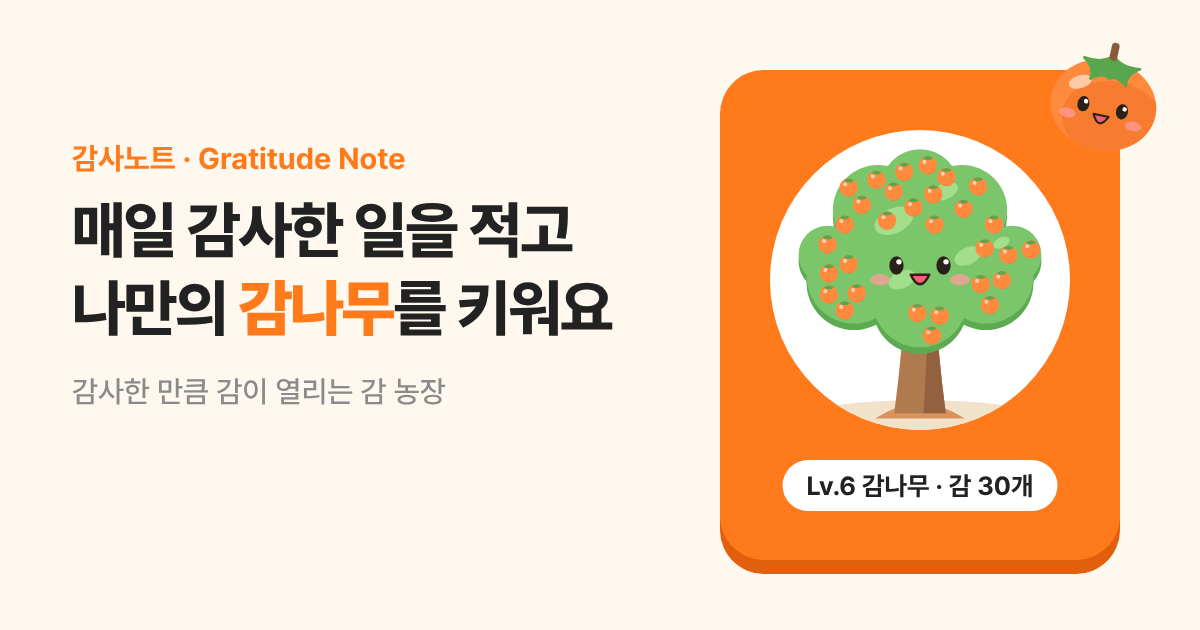
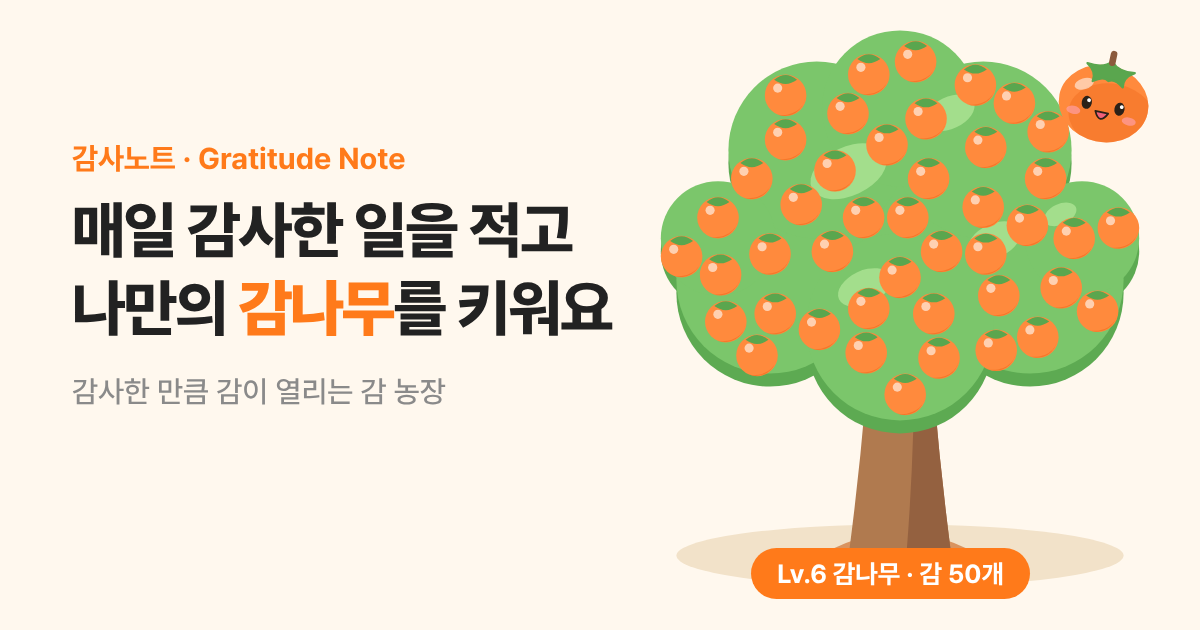
감사노트: 나무를 상자·원 없이 크게 표시, 감이 열리면 나무 얼굴 제거
Claude-Session: https://claude.ai/code/session_01EFAd4hury13y4Zs9Q6ZPV4

Changed region(s): [[0.5242, 0.0302, 0.9867, 0.9651]]

diff --git a/gamsa-note/src/components/FarmTree.tsx b/gamsa-note/src/components/FarmTree.tsx
@@ -44,17 +44,12 @@ export default function FarmTree({ t, onClick }: { t: FarmTreeData; onClick?: ()
   const ps = periodState(t);
   const mine = t.is_member;
   return (
-    <button onClick={onClick}
-      className={`relative w-full text-left rounded-[20px] p-3 pb-3.5 transition-transform active:scale-[.98] ${mine ? "bg-gam text-white" : "bg-white"}`}>
-      <div className="flex items-center justify-between text-[11px] font-semibold">
-        <span className={`flex items-center gap-1 ${mine ? "" : "text-sub"}`}><Persimmon className="w-3.5 h-3.5" face={false} />{t.note_count}</span>
-        <span className={`rounded-full px-1.5 py-0.5 ${mine ? "bg-white/25" : ps.tone}`}>{ps.label}</span>
-      </div>
-      <div className={`mt-2 mx-auto w-[82%] aspect-square rounded-full flex items-end justify-center overflow-hidden ${mine ? "bg-white" : "bg-peach"}`}>
-        <GamTree count={t.note_count} className="w-[88%] -mb-0.5" />
-      </div>
-      <div className="mt-2.5 flex justify-center"><span className={`text-[13px] font-bold rounded-full px-2.5 py-0.5 text-center break-keep ${mine ? "bg-white text-ink" : "bg-cream"}`}>{t.name}</span></div>
-      <p className={`mt-1.5 text-center text-[11px] ${mine ? "text-white/85" : "text-sub"}`}>{st.label}{mine ? " · 내 나무" : ""}</p>
+    <button onClick={onClick} className="relative w-full flex flex-col items-center transition-transform active:scale-[.98]">
+      {mine && <span className="absolute left-0 top-0 z-10 bg-gam text-white text-[11px] font-bold rounded-full px-2 py-0.5">내 나무</span>}
+      <span className={`absolute right-0 top-0 z-10 text-[11px] font-semibold rounded-full px-2 py-0.5 ${ps.tone}`}>{ps.label}</span>
+      <GamTree count={t.note_count} className="w-full" />
+      <span className={`-mt-1 text-[13px] font-bold rounded-full px-3 py-1 text-center break-keep ${mine ? "bg-gam text-white" : "bg-white border border-line"}`}>{t.name}</span>
+      <p className="mt-1 text-[11px] text-sub flex items-center gap-1"><Persimmon className="w-3.5 h-3.5" face={false} />{t.note_count} · {st.label}</p>
     </button>
   );
 }
@@ -69,9 +64,7 @@ export function TreeDetail({ t, onClose }: { t: FarmTreeData; onClose: () => voi
           <button onClick={onClose} className="absolute right-4 top-4 w-9 h-9 rounded-full bg-cream text-lg" aria-label="닫기">×</button>
           <div className="flex flex-col items-center">
             <SignBoard name={t.name} />
-            <div className="mt-3 w-56 h-56 rounded-full bg-peach flex items-end justify-center overflow-hidden">
-              <GamTree count={t.note_count} className="w-[88%]" />
-            </div>
+            <GamTree count={t.note_count} className="w-72 max-w-full mt-1" />
           </div>
         </div>
         <div className="px-5 pt-4">

diff --git a/gamsa-note/src/app/(app)/calendar/page.tsx b/gamsa-note/src/app/(app)/calendar/page.tsx
@@ -85,22 +85,17 @@ function CalendarInner() {
         <Link href="/farm" className="text-[12px] font-semibold text-gam bg-gam-light rounded-full px-2.5 py-1">감농장</Link>
       </div>
 
-      <section className="rounded-[22px] bg-gam text-white p-5 shadow-[0_8px_0_#e2600c]">
-        <div className="flex items-center justify-between text-[13px] font-semibold">
-          <span className="flex items-center gap-1.5 bg-white/20 rounded-full pl-1 pr-2.5 py-0.5"><Persimmon className="w-5 h-5" face={false} /> {yearCount ?? 0}개</span>
-          <span>{thisYear}년 감사 기록 중</span>
+      <section className="text-center">
+        <GamTree count={yearCount ?? 0} className="w-full max-w-[340px] mx-auto -mt-2" />
+        <div className="-mt-1 flex justify-center items-center gap-2">
+          <span className="bg-gam text-white text-[14px] font-bold rounded-full px-3.5 py-1">Lv.{lv.level} {lv.label}</span>
+          {lv.grown > 0 && <span className="bg-white border border-line text-[13px] font-bold rounded-full px-3 py-1 flex items-center gap-1"><Persimmon className="w-4 h-4" face={false} />감 {lv.grown}개</span>}
         </div>
-        <div className="mt-3 mx-auto w-44 h-44 sm:w-52 sm:h-52 rounded-full bg-white flex items-end justify-center overflow-hidden">
-          <GamTree count={yearCount ?? 0} className="w-[88%] -mb-1" />
-        </div>
-        <div className="mt-3 flex justify-center">
-          <span className="bg-white text-ink text-[13px] font-bold rounded-full px-3 py-1">Lv.{lv.level} {lv.label}</span>
-        </div>
-        <div className="mt-4 xp"><div style={{ width: `${(lv.cur / lv.max) * 100}%` }} /></div>
-        <p className="mt-3 text-center text-[14px] font-semibold leading-snug">
-          올해 총 {total}일 중 <b className="text-[17px]">{yearCount ?? 0}일</b><br />감사노트를 작성했어요
+        <div className="mt-4 max-w-xs mx-auto h-2.5 rounded-full bg-gam-light overflow-hidden"><div className="h-full rounded-full bg-gam" style={{ width: `${(lv.cur / lv.max) * 100}%` }} /></div>
+        <p className="mt-1.5 text-[12px] text-sub">{lv.next}</p>
+        <p className="mt-3 text-[15px] font-semibold leading-snug">
+          올해 총 {total}일 중 <b className="text-gam text-[18px]">{yearCount ?? 0}일</b> 감사노트를 작성했어요
         </p>
-        <p className="mt-1 text-center text-[11px] text-white/80">{lv.grown ? `감 ${lv.grown}개가 열렸어요 · ` : ""}{lv.next}</p>
       </section>
 
       {wroteToday === false && (

diff --git a/gamsa-note/src/app/page.tsx b/gamsa-note/src/app/page.tsx
@@ -4,7 +4,7 @@ import { GamTree, Persimmon } from "@/components/Illust";
 export default async function Landing({ searchParams }: { searchParams: Promise<{ next?: string; error?: string }> }) {
   const sp = await searchParams;
   return (
-    <main className="min-h-dvh flex flex-col max-w-md mx-auto px-6 pt-14 pb-8">
+    <main className="min-h-dvh flex flex-col max-w-md mx-auto px-6 pt-12 pb-8">
       <p className="text-gam font-bold text-[14px]">Gratitude Note</p>
       <h1 className="mt-2 text-[28px] leading-[1.35] font-extrabold">
         매일 감사한 일을 적고<br />나만의 <span className="text-gam">감나무</span>를 키워요
@@ -13,15 +13,13 @@ export default async function Landing({ searchParams }: { searchParams: Promise<
         원고지에 쓰는 하루 한 줄 감사, 사진 한 장.<br />함께 감사하면 감나무에 감이 주렁주렁 열려요.
       </p>
 
-      <div className="relative mt-8 rounded-[28px] bg-gam px-6 pt-6 pb-5">
-        <div className="flex items-center justify-between text-white text-[12px] font-semibold">
-          <span>MY 감나무</span><span>Lv.6 감나무</span>
+      <div className="relative mt-4">
+        <GamTree count={150} className="w-full max-w-[360px] mx-auto" />
+        <div className="-mt-1 flex justify-center gap-2">
+          <span className="bg-gam text-white rounded-full px-3.5 py-1 text-[13px] font-bold">Lv.6 감나무</span>
+          <span className="bg-white border border-line rounded-full px-3 py-1 text-[13px] font-bold">감 50개가 열렸어요</span>
         </div>
-        <div className="mt-3 mx-auto w-48 h-48 rounded-full bg-white flex items-end justify-center overflow-hidden">
-          <GamTree count={128} className="w-[90%] -mb-1" />
-        </div>
-        <div className="mt-3 flex justify-center"><span className="bg-white rounded-full px-3 py-1 text-[13px] font-bold">감 28개가 열렸어요</span></div>
-        <Persimmon className="absolute -right-3 -top-5 w-16 h-16 rotate-12 floaty" />
+        <Persimmon className="absolute right-0 top-2 w-14 h-14 rotate-12 floaty" />
       </div>
 
       <div className="flex-1" />

diff --git a/gamsa-note/src/lib/illust.ts b/gamsa-note/src/lib/illust.ts
@@ -47,7 +47,7 @@ export function persimmonSvg(opts: { face?: boolean } = {}) {
   </svg>`;
 }
 
-function miniFruit(x: number, y: number, r = 7) {
+function miniFruit(x: number, y: number, r = 8) {
   return `<g>
     <circle cx="${x}" cy="${y}" r="${r}" fill="${C.persimmon}"/>
     <path d="M${x + r * 0.95} ${y + r * 0.1} A${r} ${r} 0 0 1 ${x - r * 0.4} ${y + r * 0.92} A${r * 1.1} ${r * 0.9} 0 0 0 ${x + r * 0.95} ${y + r * 0.1}Z" fill="${C.persimmonDark}" opacity=".6"/>
@@ -91,15 +91,13 @@ const FACE: Record<number, [number, number, number]> = { 3: [100, 100, 40], 4: [
 /** 감나무 5단계에서 감이 열릴 자리 (얼굴 피해서) */
 export const FRUIT_SPOTS: [number, number][] = (() => {
   const blobs = STAGE_BLOBS[5];
-  const [fx, fy] = FACE[5];
   const out: [number, number][] = [];
   let s = 11;
   const rnd = () => ((s = (s * 16807) % 2147483647) / 2147483647);
-  for (let t = 0; t < 5000 && out.length < 44; t++) {
+  for (let t = 0; t < 8000 && out.length < 60; t++) {
     const x = 14 + rnd() * 172, y = 6 + rnd() * 150;
     if (!blobs.some(([bx, by, r]) => (x - bx) ** 2 + (y - by) ** 2 < (r - 6) ** 2)) continue;
-    if (Math.abs(x - fx) < 44 && y > fy - 28 && y < fy + 36) continue;
-    if (out.some(([ox, oy]) => (ox - x) ** 2 + (oy - y) ** 2 < 15 ** 2)) continue;
+    if (out.some(([ox, oy]) => (ox - x) ** 2 + (oy - y) ** 2 < 16.5 ** 2)) continue;
     out.push([Math.round(x), Math.round(y)]);
   }
   return out;
@@ -135,7 +133,8 @@ export function treeSvg(count: number) {
     }
     body += canopy(STAGE_BLOBS[lvl]);
     const [fx, fy, fs] = FACE[lvl];
-    body += face(fx, fy, fs);
+    // 감이 열리기 전까지만 얼굴이 있음
+    if (count <= FULL_AT) body += face(fx, fy, fs);
     if (count > FULL_AT) {
       body += FRUIT_SPOTS.slice(0, count - FULL_AT).map(([x, y]) => miniFruit(x, y)).join("");
     }

diff --git a/gamsa-note/scripts/build-assets.ts b/gamsa-note/scripts/build-assets.ts
@@ -56,13 +56,15 @@ async function icon(size: number, file: string, { radius = 0, pad = 0.14, bg = "
     .card{position:absolute;right:80px;top:70px;width:400px;height:490px;border-radius:44px;background:#FF7A1A;box-shadow:0 14px 0 #e2600c}
     .circle{position:absolute;left:50px;top:60px;width:300px;height:300px;border-radius:50%;background:#fff;overflow:hidden;display:flex;align-items:flex-end;justify-content:center}
     .circle svg{width:88%;margin-bottom:-4px}
-    .chip{position:absolute;left:50%;transform:translateX(-50%);top:390px;background:#fff;border-radius:999px;padding:10px 24px;font-weight:700;font-size:26px;white-space:nowrap}
-    .pc{position:absolute;right:30px;top:30px;width:130px;transform:rotate(12deg)}
+    .tree{position:absolute;right:40px;top:20px;width:520px}
+    .tree svg{width:100%;height:auto;display:block}
+    .chip{position:absolute;right:170px;top:548px;background:#FF7A1A;color:#fff;border-radius:999px;padding:10px 26px;font-weight:700;font-size:26px;white-space:nowrap}
+    .pc{position:absolute;right:40px;top:40px;width:110px;transform:rotate(12deg)}
   </style></head><body>
   <div class="l"><div class="tag">감사노트 · Gratitude Note</div>
   <h1>매일 감사한 일을 적고<br>나만의 <b>감나무</b>를 키워요</h1>
   <p>감사한 만큼 감이 열리는 감 농장</p></div>
-  <div class="card"><div class="circle">${treeSvg(130)}</div><div class="chip">Lv.6 감나무 · 감 30개</div></div>
+  <div class="tree">${treeSvg(150)}</div><div class="chip">Lv.6 감나무 · 감 50개</div>
   <div class="pc">${persimmonSvg({ face: true })}</div>
   </body></html>`);
   await p.waitForTimeout(600);

diff --git a/gamsa-note/src/app/(app)/farm/page.tsx b/gamsa-note/src/app/(app)/farm/page.tsx
@@ -52,7 +52,7 @@ export default function FarmPage() {
             <Link href="/settings#tree" className="btn3d btn-gam inline-block mt-4 px-5 py-2.5 text-sm">감나무 코드 입력하기</Link>
           </div>
         ) : (
-          <div className="grid grid-cols-2 sm:grid-cols-3 lg:grid-cols-4 gap-3">
+          <div className="grid grid-cols-2 sm:grid-cols-3 lg:grid-cols-4 gap-x-3 gap-y-7">
             {list.map((t) => <FarmTree key={t.id} t={t} onClick={() => setOpen(t)} />)}
           </div>
         )}
